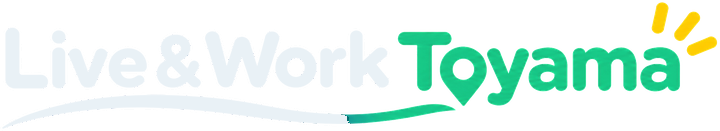
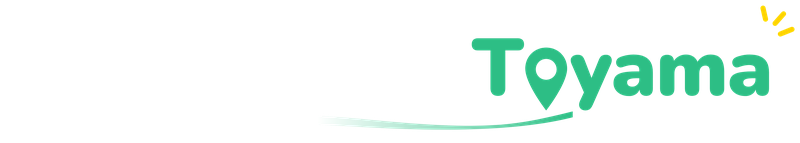
ヘッダーのロゴを新しいサービス名ロゴに差し替え
Claude-Session: https://claude.ai/code/session_01LVSzL5UBqbAscrPyGHXgmt

Changed region(s): [[0.4278, 0.0, 1.0, 0.9466]]

diff --git a/build.py b/build.py
@@ -297,7 +297,7 @@ def header(lang, section, alternates, ja_only=False):
     return (
         f'<a class="skip" href="#main">{esc(t(nl, "skip"))}</a>\n<header>\n  <div class="bar">\n'
         f'    <a class="logo" href="/{nl}/"><picture><source srcset="/img/brand/wordmark-dark.png" media="(prefers-color-scheme: dark)">'
-        f'<img src="/img/brand/wordmark.png" width="720" height="131" alt="Live &amp; Work Toyama"></picture><small lang="{UI[nl]["html_lang"]}">{esc(t(nl, "tagline"))}</small></a>\n'
+        f'<img src="/img/brand/wordmark.png" width="800" height="143" alt="Live &amp; Work Toyama"></picture><small lang="{UI[nl]["html_lang"]}">{esc(t(nl, "tagline"))}</small></a>\n'
         f'    <nav aria-label="{esc(t(nl, "nav_label"))}">{nav}</nav>\n'
         f"    {lang_switch(lang, alternates, ja_only)}\n  </div>\n</header>\n"
     )
